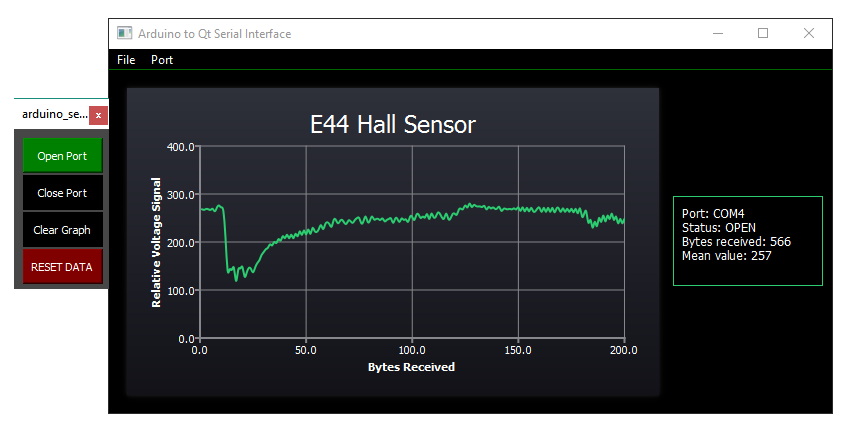
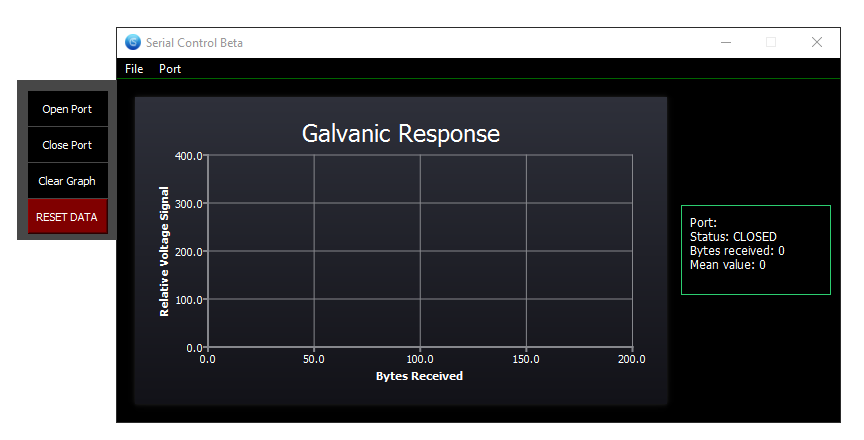
UI

Changed region(s): [[0.0, 0.0595, 0.9754, 0.9817]]

diff --git a/src/mainwindow.cpp b/src/mainwindow.cpp
@@ -41,6 +41,26 @@ MainWindow::MainWindow(QWidget *parent) : QMainWindow(parent)
 
     // CHART VIEW
 
+    // TEST
+
+
+    series0 = new QScatterSeries();
+    series0->setName("scatter1");
+    series0->setMarkerShape(QScatterSeries::MarkerShapeCircle);
+    series0->setMarkerSize(15.0);
+
+    QScatterSeries *series1 = new QScatterSeries();
+    series1->setName("scatter2");
+    series1->setMarkerShape(QScatterSeries::MarkerShapeRectangle);
+    series1->setMarkerSize(20.0);
+
+    QScatterSeries *series2 = new QScatterSeries();
+    series2->setName("scatter3");
+    series2->setMarkerShape(QScatterSeries::MarkerShapeRectangle);
+    series2->setMarkerSize(30.0);
+
+    //////////////
+
      series = new QtCharts::QSplineSeries();
      QFont font;
      font.setPixelSize(24);
@@ -55,10 +75,11 @@ MainWindow::MainWindow(QWidget *parent) : QMainWindow(parent)
     chart = new QtCharts::QChart();
     chart->legend()->hide();
     chart->addSeries(series);
+    chart->addSeries(series0);
 
     // Setting the Chart Title
 
-    chart->setTitle("E44 Hall Sensor");
+    chart->setTitle("Galvanic Response");
 
     // Customizing the Chart
 
@@ -110,6 +131,7 @@ MainWindow::MainWindow(QWidget *parent) : QMainWindow(parent)
     }
 
     p.save("a.png", "PNG");
+    main_windows = this;
     // CONNECTING SIGNALS AND SLOTS
 
     connect(s_com,SIGNAL(send_chart_data(unsigned int, unsigned int)),this,SLOT(receive_chart_data(unsigned int, unsigned int)));
@@ -125,6 +147,7 @@ void MainWindow::receive_chart_data(unsigned int br, unsigned int d)
    // qDebug() << "Received: " << br << ", " << d << "\n";
     total_bytes_read+=1;
     series->append(br, d);
+    series0->append(d,br);
     data_value_sum+=d;
     average_data_value = data_value_sum/total_bytes_read;
     comms_log.setText("Port: COM4\n"

diff --git a/src/mainwindowmenubar.cpp b/src/mainwindowmenubar.cpp
@@ -1,6 +1,6 @@
 #include "mainwindowmenubar.h"
 
-MainWindowMenuBar::MainWindowMenuBar(QMainWindow* parent)
+MainWindowMenuBar::MainWindowMenuBar(MainWindow* parent)
 {
     // MENU BAR SETUP
 
@@ -8,12 +8,13 @@ MainWindowMenuBar::MainWindowMenuBar(QMainWindow* parent)
 
        SubMenu_1 = new QMenu("");
       // MenuBar = new QMenuBar(parent);
-
+       new_window_action = new QAction("Extra Window");
        save_plot_action = new QAction("Save Plot",parent);
        export_data_action = new QAction("Export Data",parent);
 
        file_menu = new QMenu("File", parent);
        file_menu->setMinimumHeight(30);
+       file_menu->addAction(new_window_action);
        file_menu->addAction(save_plot_action);
        file_menu->addAction(export_data_action);
 
@@ -58,6 +59,23 @@ MainWindowMenuBar::MainWindowMenuBar(QMainWindow* parent)
 void MainWindowMenuBar::EXPORT_DATA_CLICKED(QAction* action)
 {
     qDebug () << "Triggered: " << action->text();
-    data_export_dialog->show();
+
+    if (action->text() == "Export Data")
+            data_export_dialog->show();
+    else if (action->text() == "Save Plot")
+    {
+
+    }
+
+    else if (action->text() == "Extra Window")
+    {
+        main_windows = new MainWindow(this);
+        main_windows->setWindowTitle("Heart Response");
+        main_windows->chartView->chart()->setTitle("Penis Response");
+        main_windows->show();
+
+    }
+
+
 }
 

diff --git a/src/mainwindowmenubar.h b/src/mainwindowmenubar.h
@@ -6,6 +6,7 @@
 #include <QtWidgets>
 #include <QWidget>
 #include "exportdialog.h"
+#include "mainwindow.h"
 
 class MainWindowMenuBar : public QMenuBar
 {
@@ -13,14 +14,17 @@ class MainWindowMenuBar : public QMenuBar
 public:
 
 
-    MainWindowMenuBar(QMainWindow* parent);
+    MainWindowMenuBar(MainWindow* p);
     //QMenuBar* menuBar(){return MenuBar;}
 
 private:
     // MENU
+
     QMenu* file_menu;
     QMenu* port_menu;
-    QAction *save_plot_action, *export_data_action;
+    MainWindow* parent;
+    MainWindow* main_windows;
+    QAction *new_window_action, *save_plot_action, *export_data_action;
     QAction *choose_port_action;
     QMenu* SubMenu_1;
     //QMenuBar* MenuBar;
@@ -30,6 +34,7 @@ private:
 
 private slots:
         void EXPORT_DATA_CLICKED(QAction* action);
+
 
 };
 

diff --git a/src/mainwindow.h b/src/mainwindow.h
@@ -19,6 +19,7 @@
 class MainWindow : public QMainWindow
 {
     friend class PortControlButtonWidget;
+    friend class MainWindowMenuBar;
     Q_OBJECT
 
 public:
@@ -50,7 +51,7 @@ private:
 
     QHBoxLayout * top_box_layout;
     QHBoxLayout* comms_panel_layout;
-
+    MainWindow * main_windows;
     QTextBrowser res;
     bool LED1_IS_ON = false;
 
@@ -68,6 +69,7 @@ private:
     QChartView *chartView;
     QtCharts::QChart *chart;
     QtCharts::QSplineSeries* series;
+    QScatterSeries *series0;
     QtCharts::QAreaSeries* evaluation_points;
 
     // SERIAL INTERACTION

diff --git a/src/main.cpp b/src/main.cpp
@@ -10,9 +10,11 @@ int main(int argc, char *argv[])
 
     MainWindow w;
     w.setWindowTitle("Serial Control Beta");
-     MainWindow x,y;
-     x.show();
-     y.show();
+    QSize max_window_size;
+
+    max_window_size.setWidth(450);
+    max_window_size.setHeight(350);
+    w.setMaximumSize(max_window_size);
     w.show();
 
     return a.exec();
